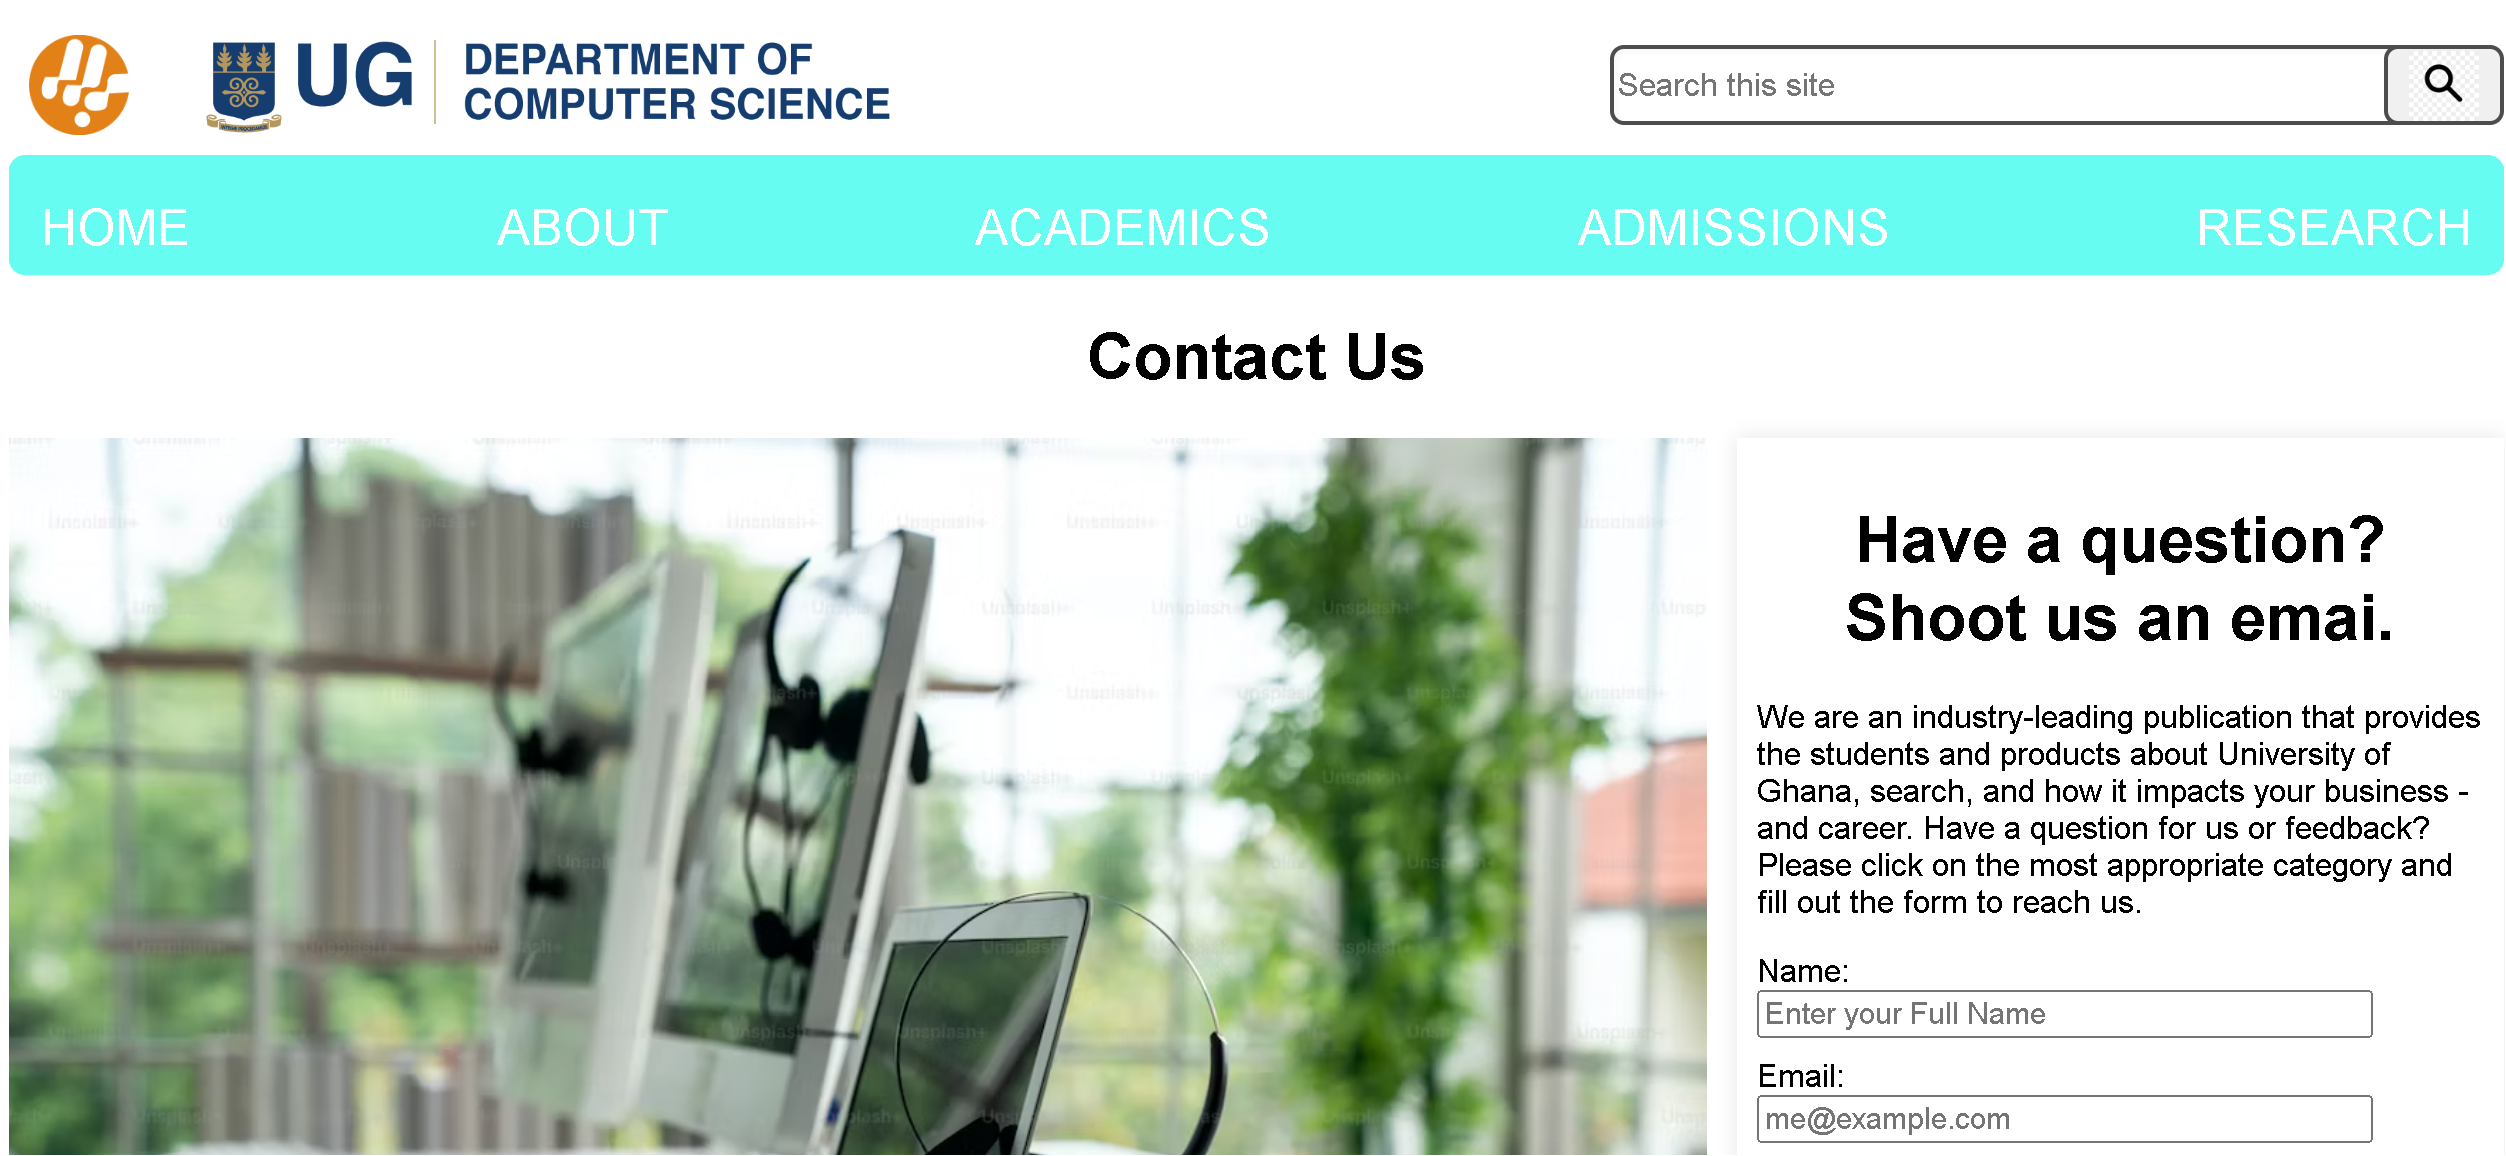
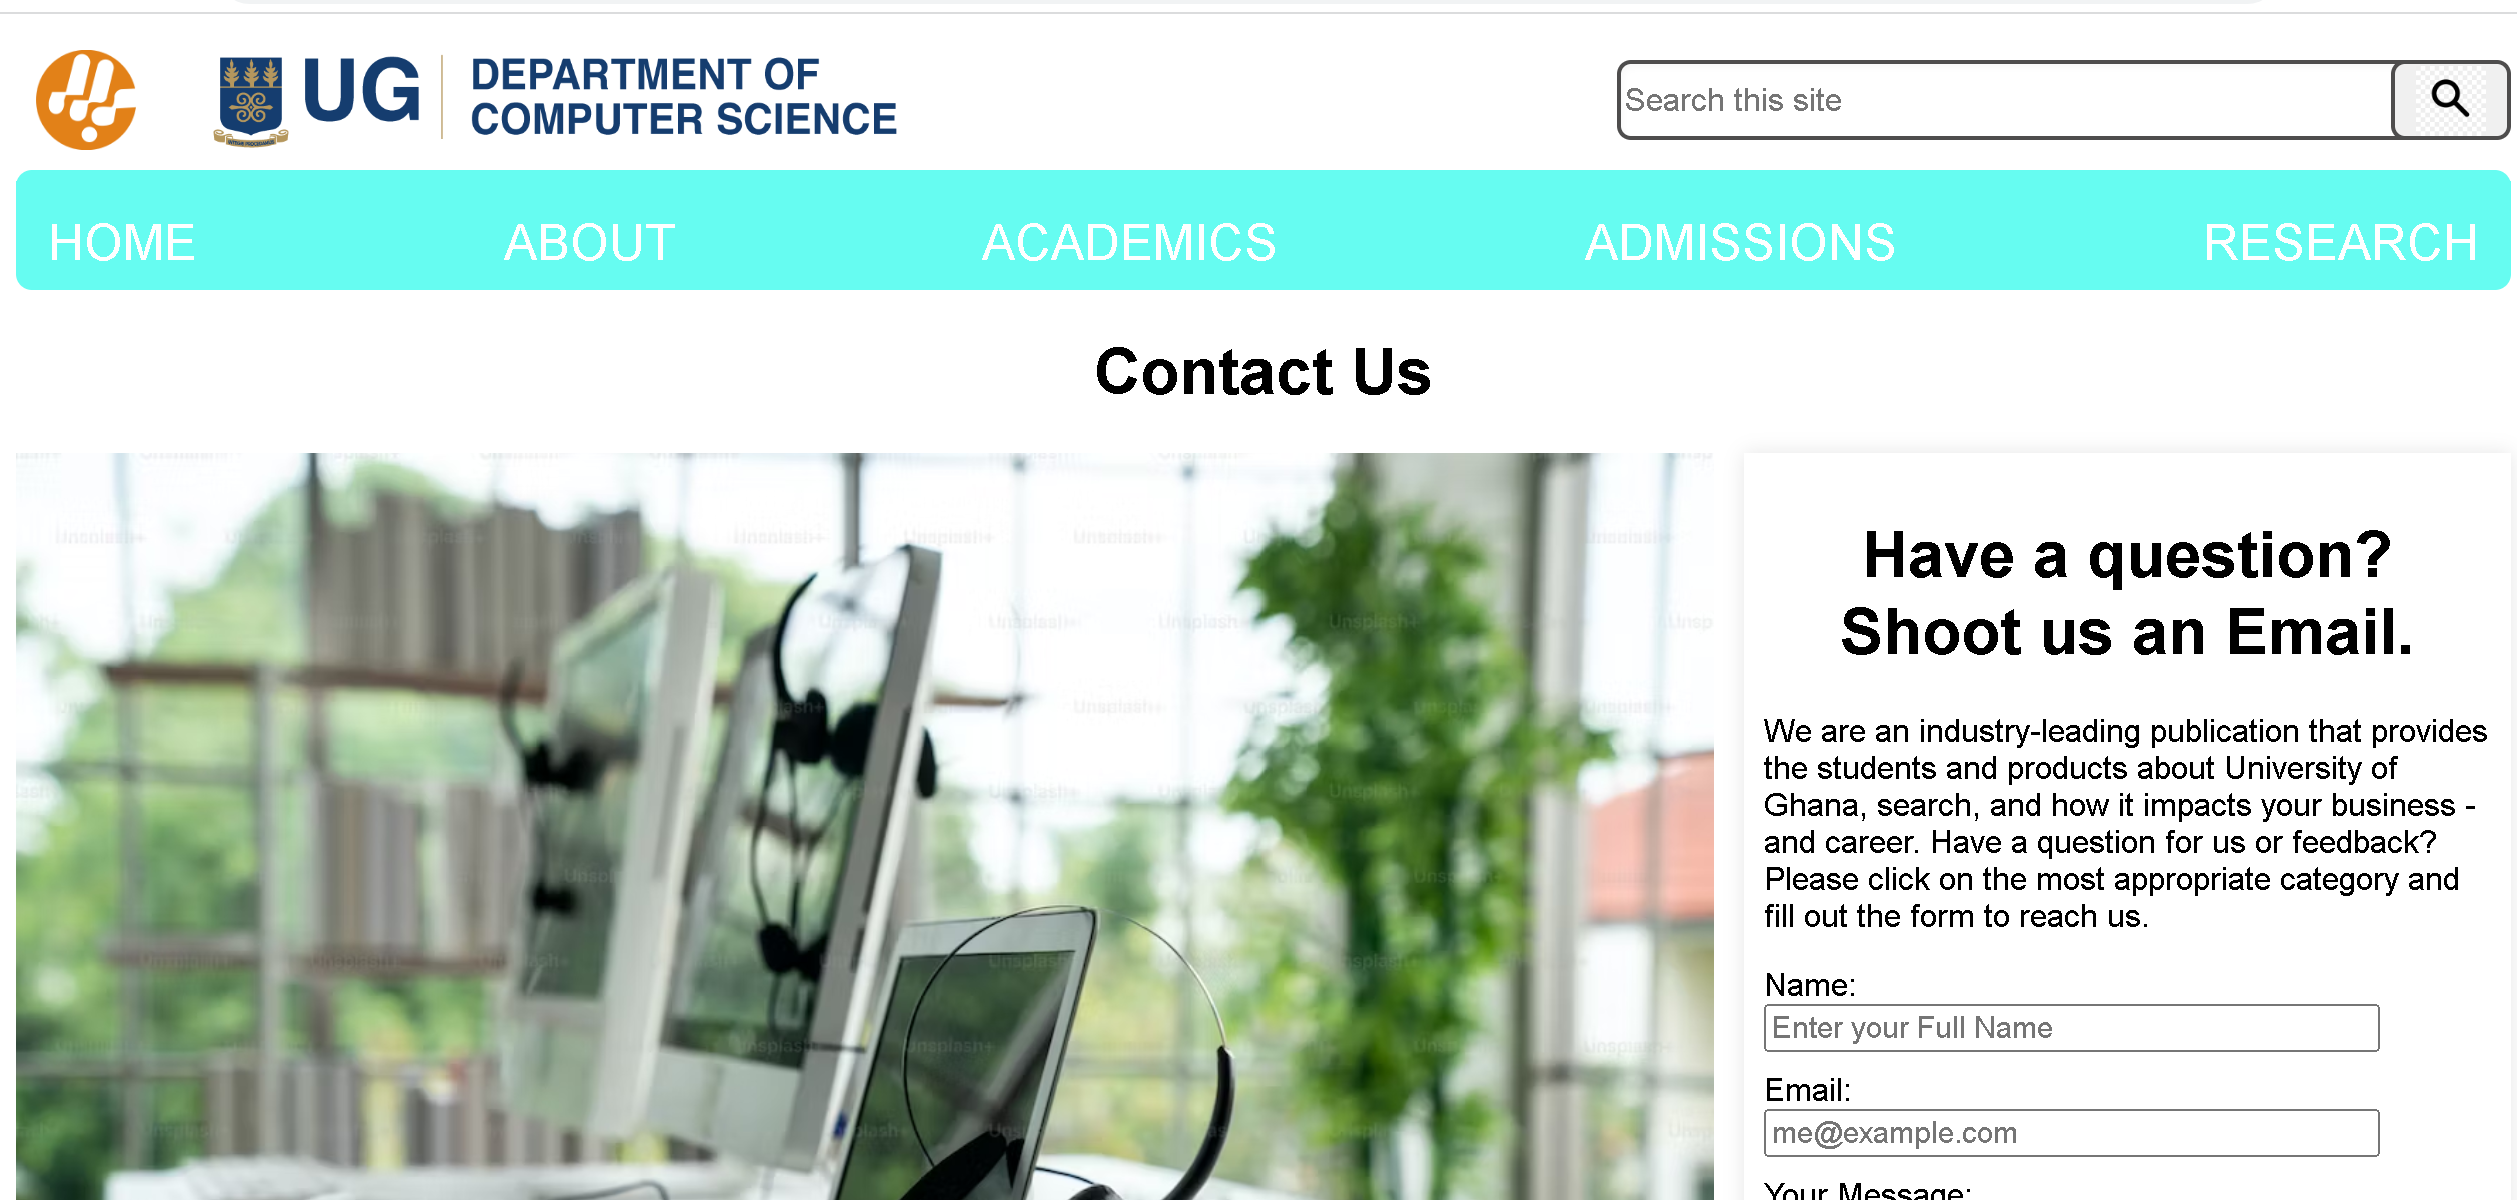
Corrected an grammar error on contact page and updated readme

diff --git a/contact.html b/contact.html
@@ -94,7 +94,7 @@
     </div>
     <div class="right">
       <h1>
-        Have a question? Shoot us an emai.
+        Have a question? Shoot us an Email.
       </h1>
       <p>
         We are an industry-leading publication that provides the

diff --git a/README.md b/README.md
@@ -139,7 +139,7 @@ To get started with Department of Coputer Science's website, follow these steps:
 
 ## Project Learnings
 
-Throughout the development of [Website Name], I have gained valuable insights and skills, including:
+Throughout the development of website of Department of Computer Science of the University of Ghana, I have gained valuable insights and skills, including:
 
 - **HTML:** Developed a structured and semantic layout for the website, ensuring accessibility and readability.
 
@@ -158,7 +158,7 @@ I would like to express my gratitude to Dr. Sorli and Daquiver
 ## Conclusion
 
 Thank you for exploring Department of Computer Science's website. If you have any questions or feedback, feel free to reach out. 
-my email: info.me.albert@gmail.com
-my phone: +233 20 192 9434
+- My email: info.me.albert@gmail.com
+- My phone: +233 20 192 9434
 
 
